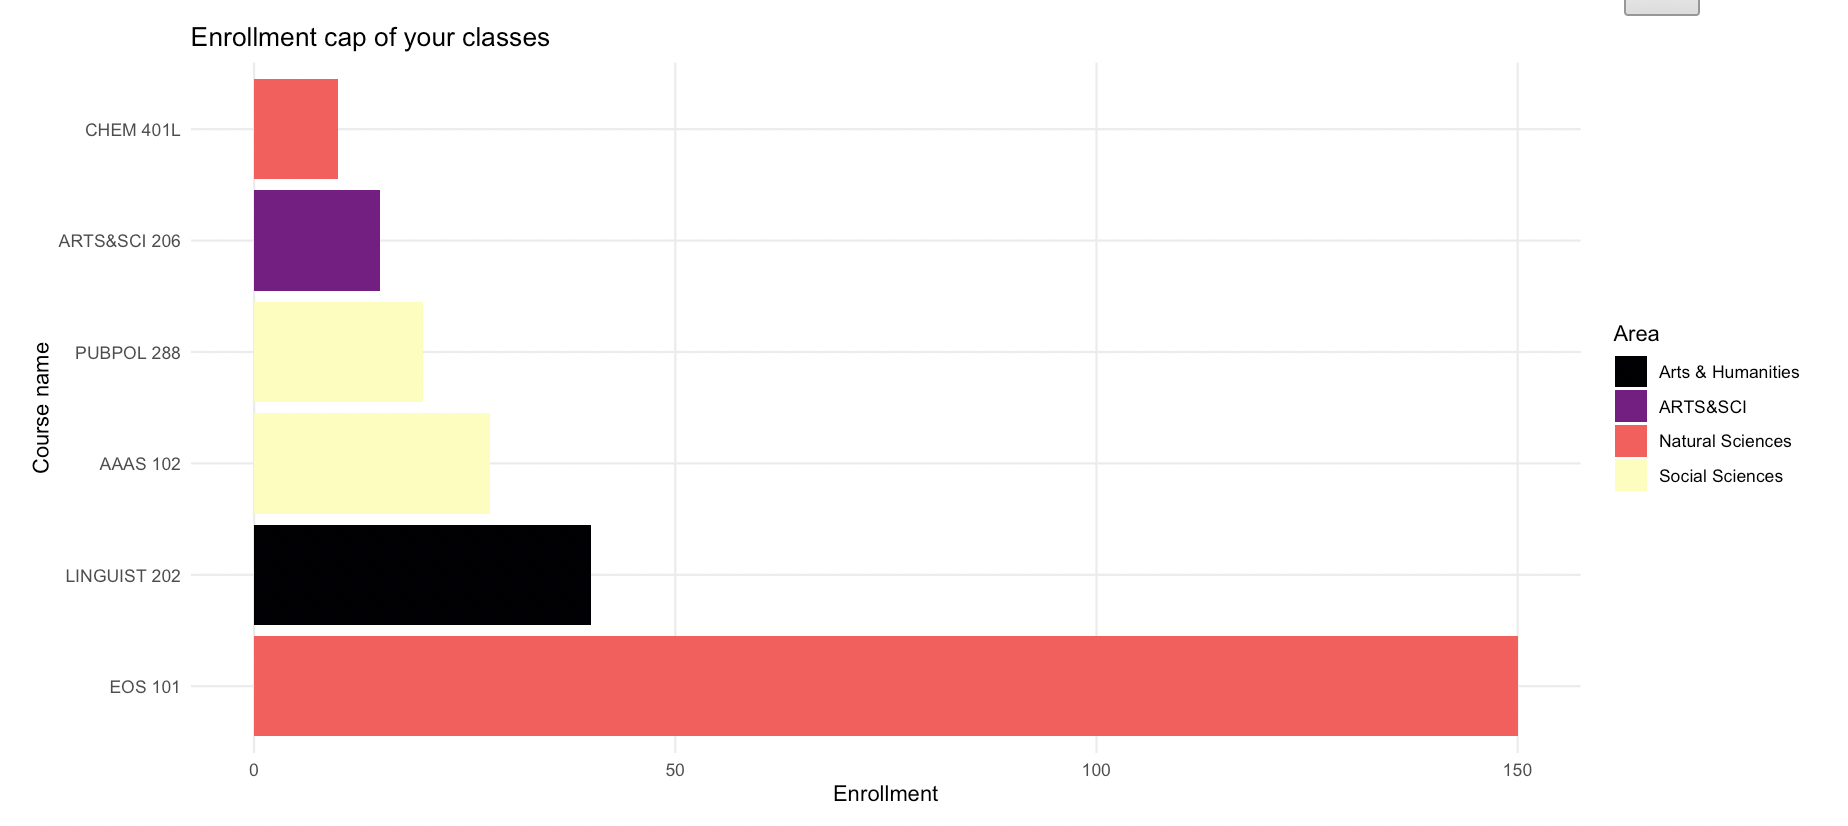
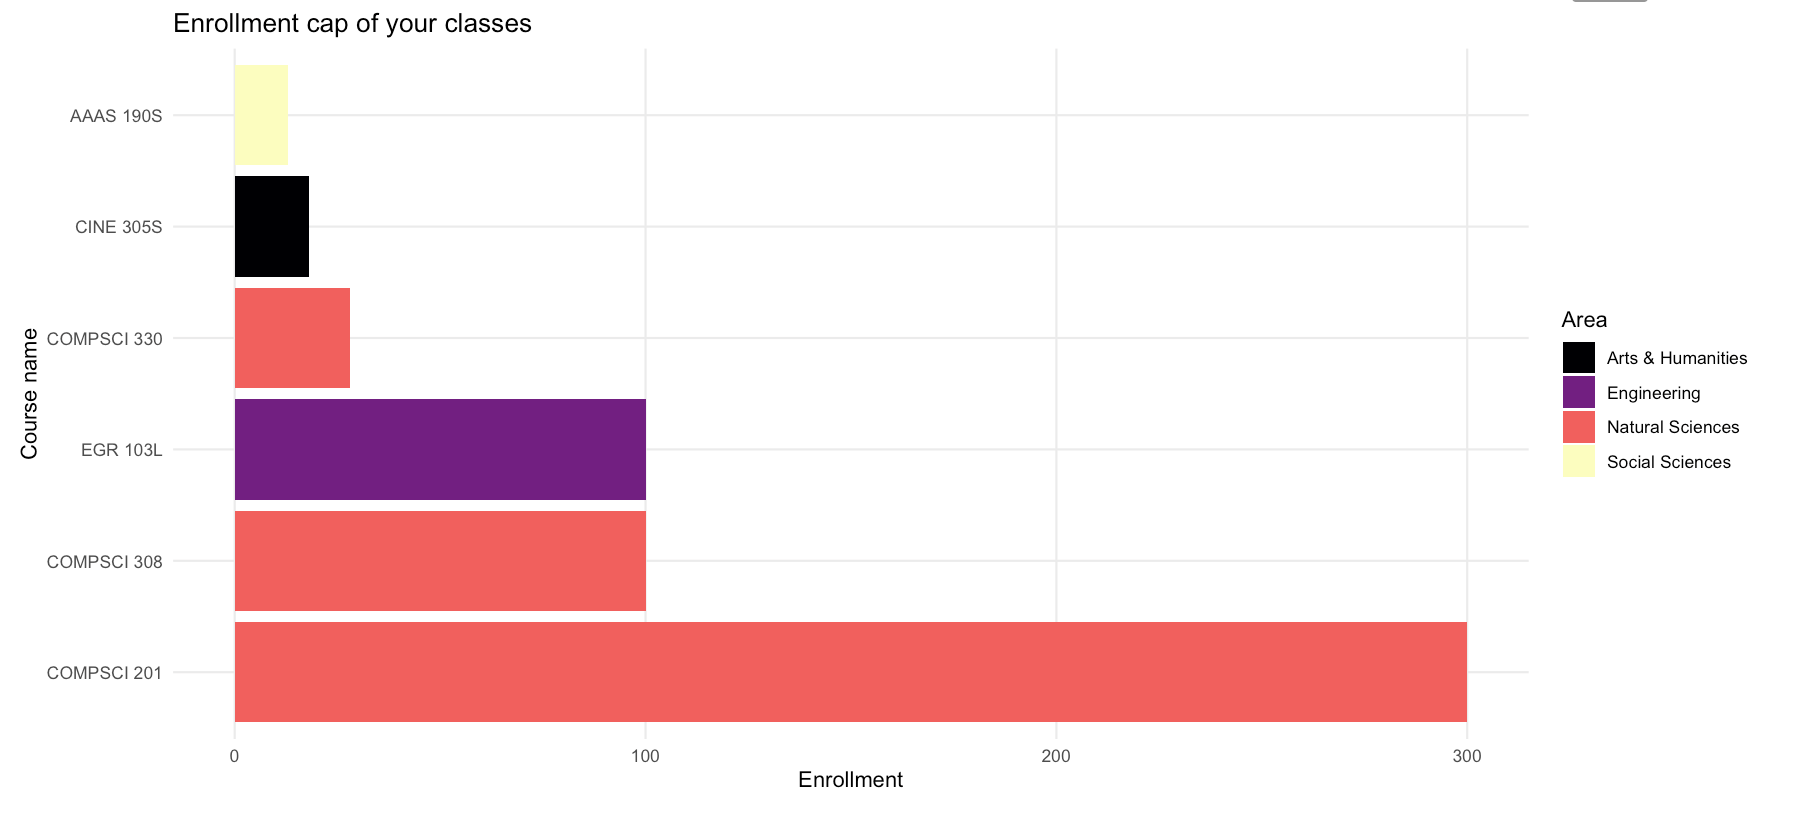
added graphics to write-up

diff --git a/README.md b/README.md
@@ -38,14 +38,18 @@ builder](#schedule-builder)
 
 Students can choose courses based on the specific subjects they would
 like to take. Like the DukeHub 2.0, students can validate their schedule
-to avoid time conflicts and overload limits, drop classes back to the
-shopping cart, and clear all selections. One improvement from DukeHub
-2.0 is that more information about classes is available on the same
-page.
+to avoid time conflicts and overload limits (6 classes maximum), drop
+classes back to the shopping cart, and clear all selections. If the
+students didn’t choose any classes, the schedule builder will also
+report invalid.
 
-Take an example of a student who wants to choose African American
-Studies. In DukeHub 2.0, the dropdown list only contains the course
-catalog numbers and descriptions after choosing the subject.
+![plot](data/graphics/invalid.jpg)
+
+Our improvement from DukeHub 2.0 is that more information about classes
+is available on the same page. Take an example of a student who wants to
+choose African American Studies. In DukeHub 2.0, the dropdown list only
+contains the course catalog numbers and descriptions after choosing the
+subject.
 
 ![plot](data/graphics/dukehub_old1.jpg)
 
@@ -78,9 +82,20 @@ after visualizing the size of other classes. Subject areas are shown in
 a pie chart to give the student an idea of how diverse their classes are
 that semester.
 
-Here is an example of a schedule of 6 classes:
+Here is an example of a schedule of 6 classes. We see that COMPSCI 201
+is a big introductory class with 300 enrollment cap, and the
+higher-level AAAS 109S is smaller. Students might want to strike a
+balance regarding class sizes to achieve a good learning experience.
+Although there are 3 CS classes, this diverse schedule allows the
+student to explore other areas like Engineering, Social Science, and
+Arts & Humanities as well.
+
+We hope these visualizations will help students determine on a schedule
+with reasonable combination of classes sizes and subject areas and enjoy
+the liberal arts education environment at Duke.
 
 ![plot](data/graphics/bar_chart.jpg)
+
 ![plot](data/graphics/pie_chart.jpg)
 
 ### Distance
@@ -94,19 +109,17 @@ the donut chart, we find that the places where the most classes are held
 are the main quad of West Campus (888 classes) and on Science Drive (535
 classes).
 
-\[plot\]
+![plot](data/graphics/pie_dist.jpg)
 
 The specific course students choose indicate their interest in that
 area, so it is also useful to know the distribution of locations by
-these subject areas. Take an example of a students who chooses DANCE 122
-(Arts & Humanities), AAAS 190S (Social Sciences), and AEROSCI 302S
-(Natural Sciences). The lollipop plot indicates that Arts & Humanities
-classes are mostly held on the main quad of West Campus as well as
-places between East and West, such as Rubinstein Arts Center, Nasher
+these subject areas. The example schedule in [Class
+information](#class-information) contains classes from four subject
+areas. The lollipop plot indicates that Arts & Humanities classes are
+mostly held on the main quad of West Campus as well as places between
+East and West (C-One Route), such as Rubinstein Arts Center, Nasher
 Museum of Art, and Smith Warehouse; Natural Sciences classes are mostly
-held on Science Drive; and Social Sciences classes are spreaded on both
+held on Science Drive; and Social Sciences classes are spread on both
 East and West campus.
 
-\[plot\]
-
-## Conclusion
+![plot](data/graphics/dist_plot.jpg)
